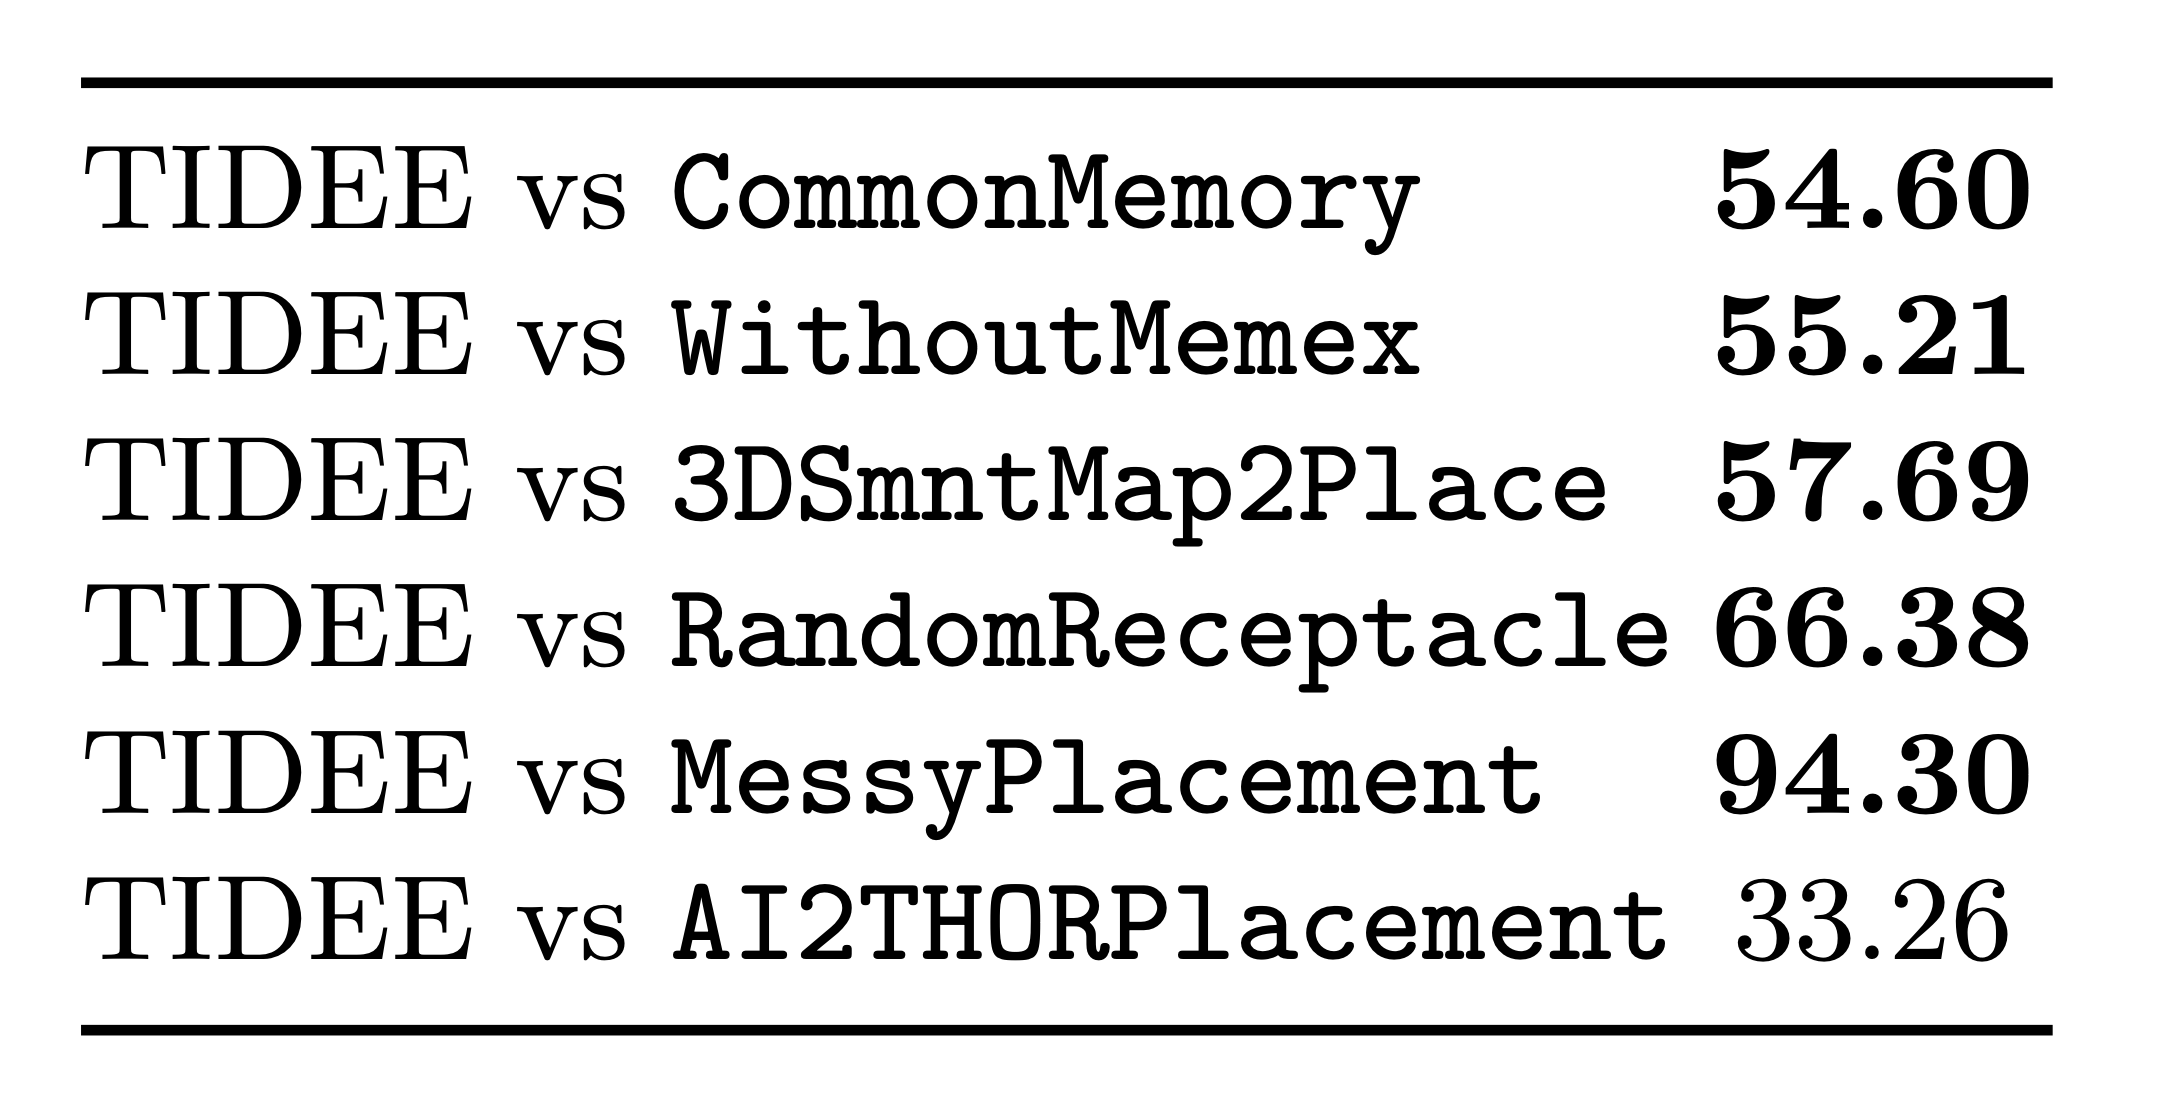
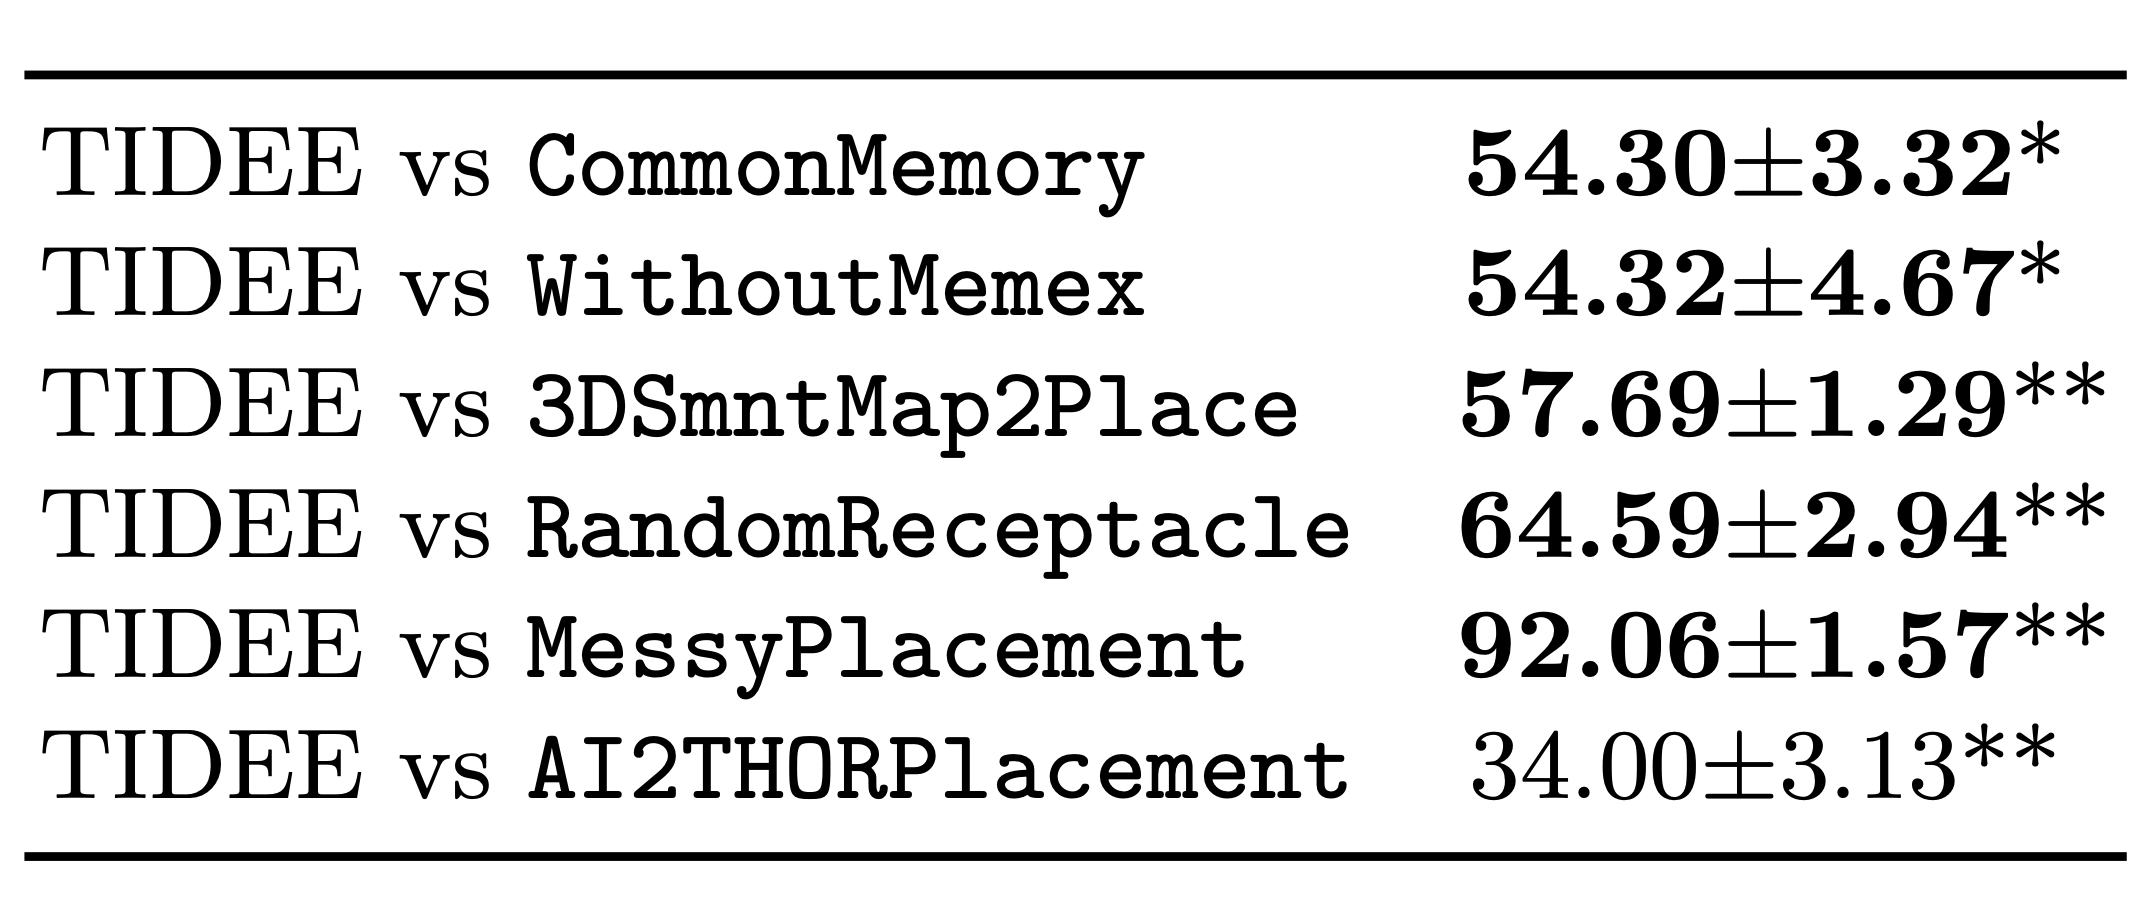
updated figures

diff --git a/index.html b/index.html
@@ -1000,7 +1000,7 @@
 
 	  <div class="w3-display-container w3-row w3-white w3-margin-bottom w3-center">
         <h2>How does TIDEE work?</h2>
-	    <img src="images/MainFigure_blocky_v2.png" style="width:100%">
+	    <img src="images/MainFigure_blocky_v3.png" style="width:100%">
         <p> </p>
         <br>
         <spacer type="horizontal" width="100" height="50"> </spacer>
@@ -1016,9 +1016,9 @@
 
       <div class="w3-display-container w3-row w3-white w3-margin-bottom w3-center">
         <h2>Results</h2>
-        <p align="justify">TIDEE outperforms ablative versions of the model that do not use one or more of the commonsense priors. The table below shows the percent of human evaluators that prefer TIDEE over the baselines.</p>
+        <p align="justify">TIDEE outperforms ablative versions of the model that do not use one or more of the commonsense priors. The table below shows the percent of human evaluators that prefer TIDEE over the baselines (mean &plusmn; standard error across subjects (n=5),*p&lt;0.05, **p&lt;0.01, Binomial test).</p>
 	    <!-- <div class="figure_tidee"> -->
-        <img src="images/Table1.png" style="width:480px">
+        <img src="images/Table1.png" style="width:480px"> 
         <!-- </div> -->
         <p align="justify">TIDEE generalizes zero-shot to the recent <a href="https://ai2thor.allenai.org/rearrangement">scene rearrangement benchmark</a>, which considers an AI agent tasked with repositioning objects in a scene in order to match the prior configuration. TIDEE outperforms the current state of the art by a significant margin on the 2022 rearrangement benchmark (as of July 2022).</p>
 	    <!-- <img src="images/Table2.png" style="width:720px"> -->
